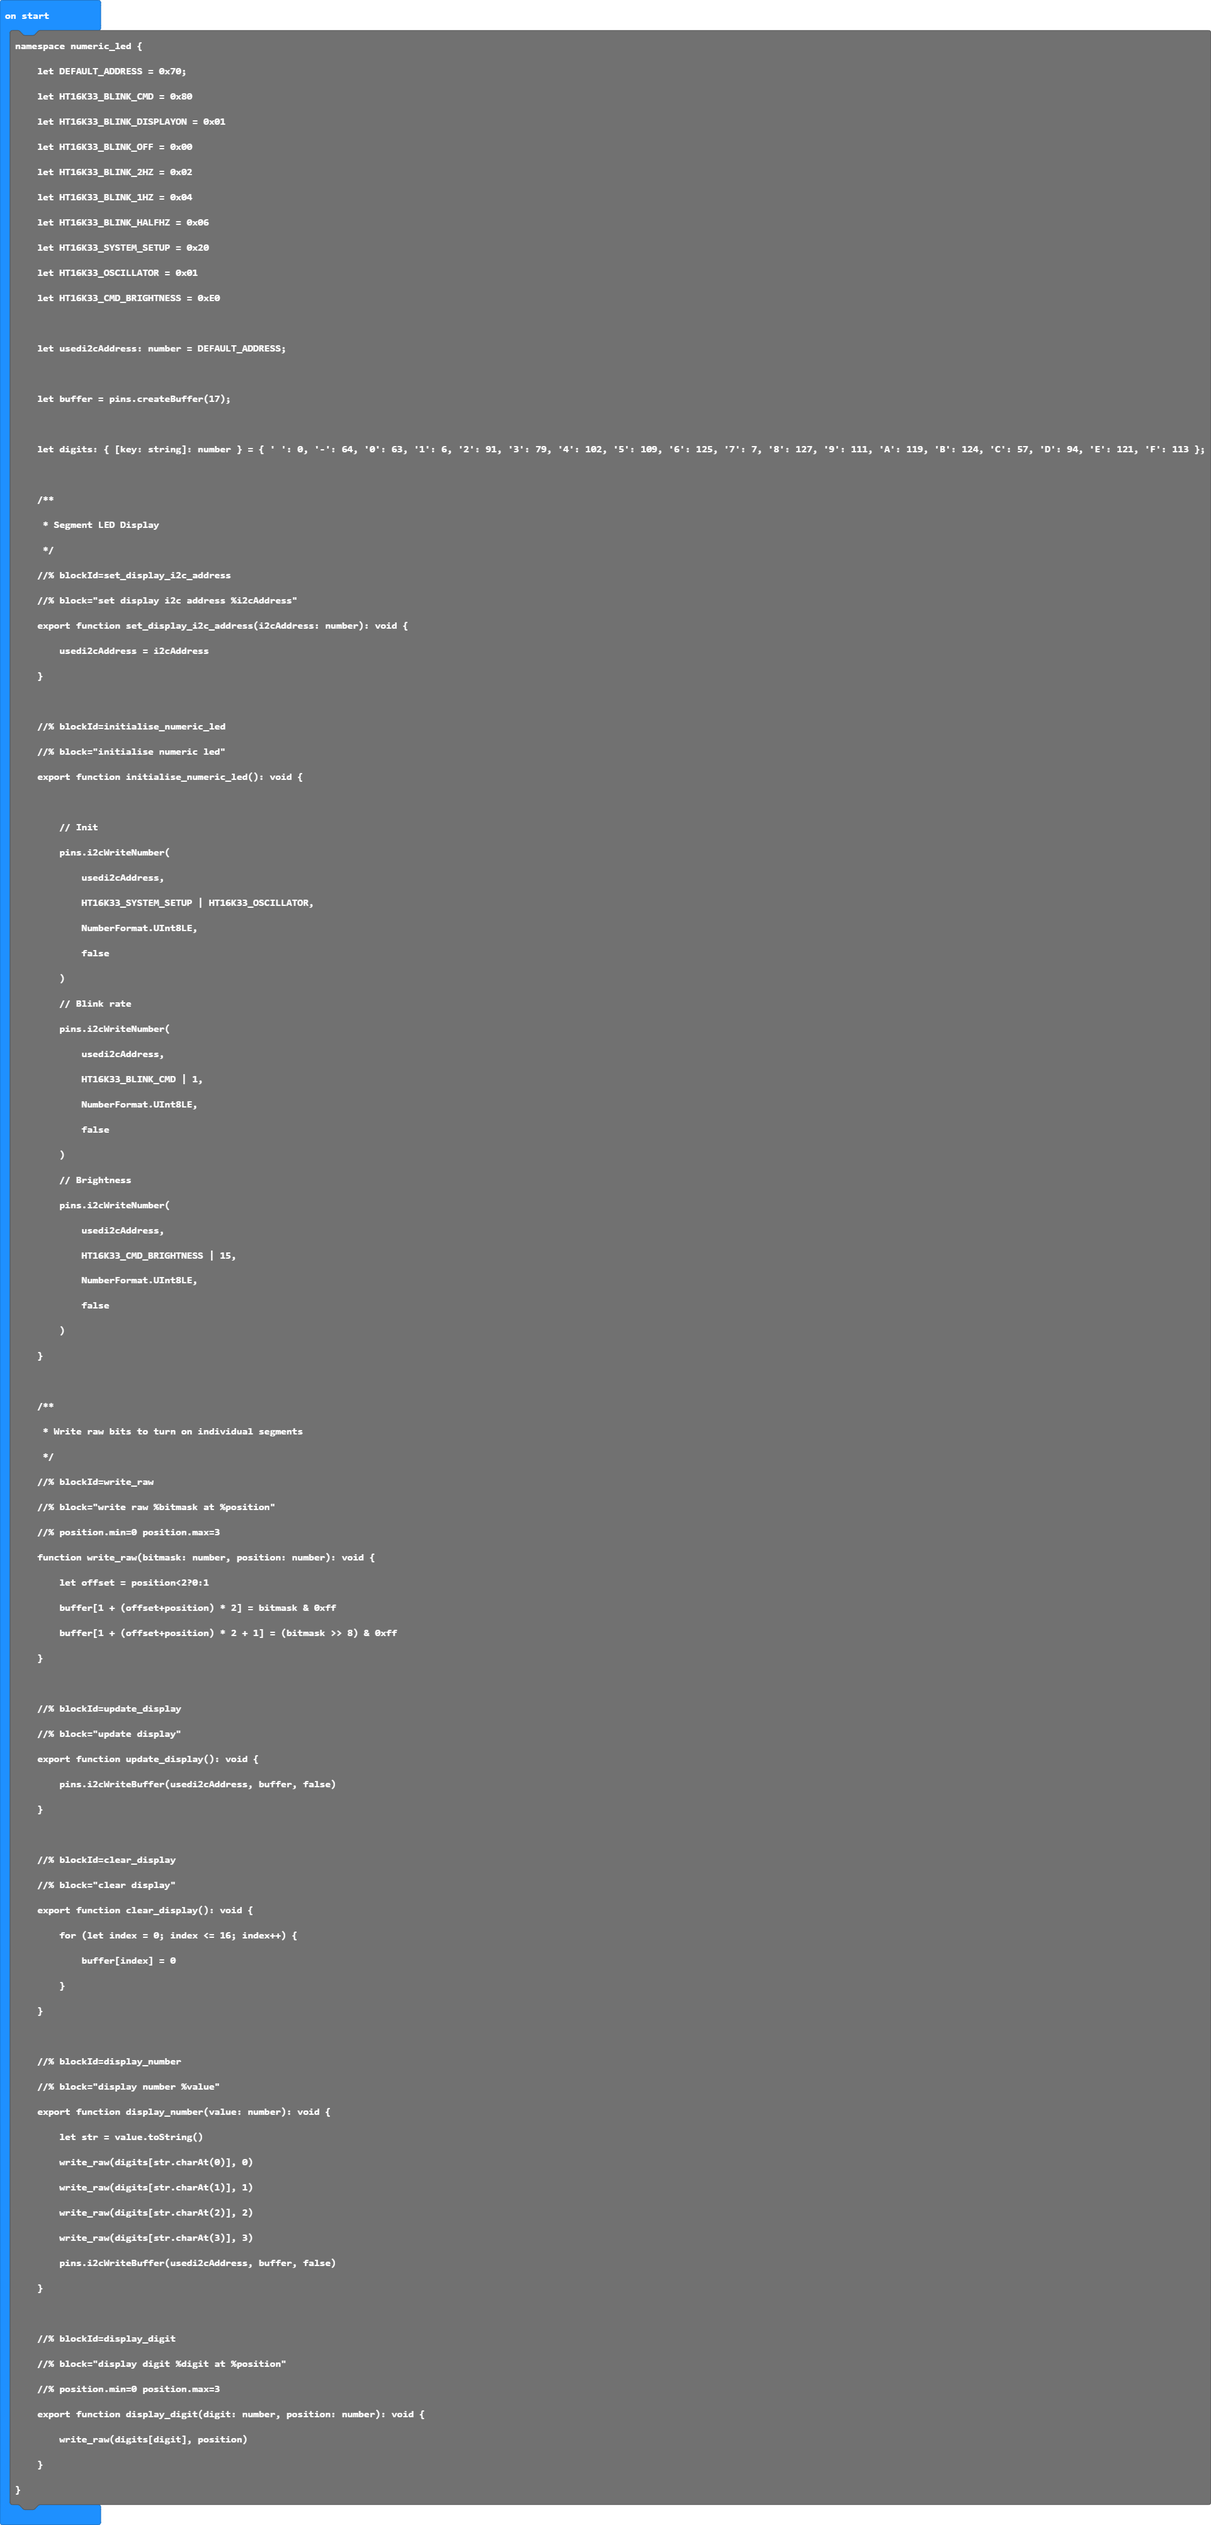
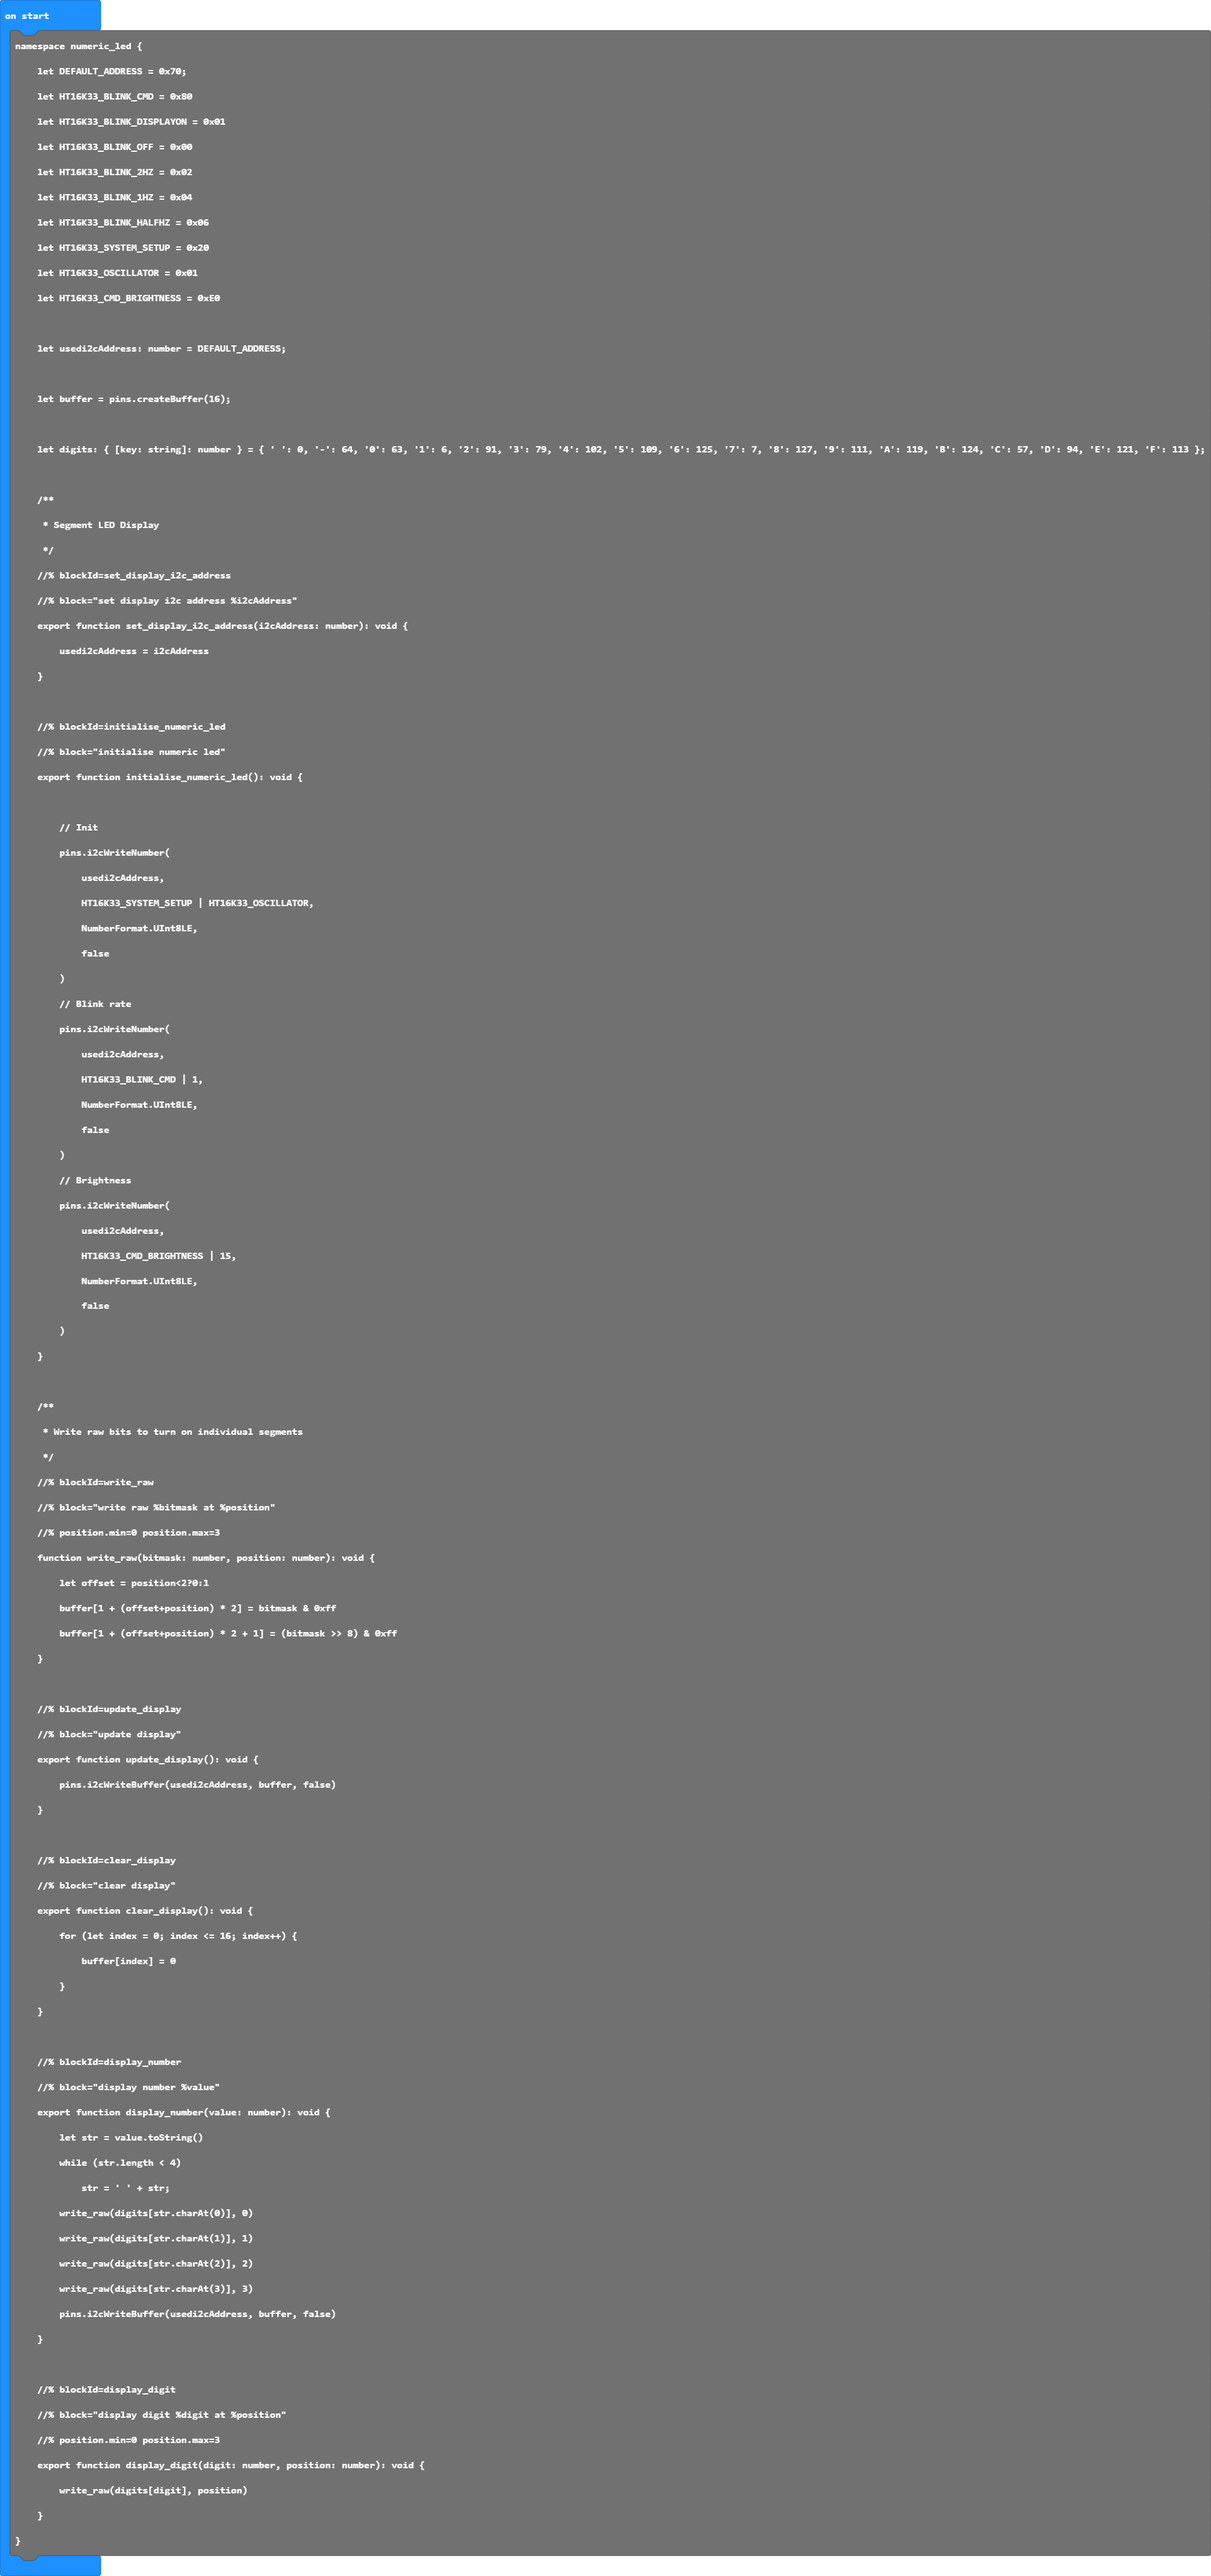
Update main.blocks, main.ts

diff --git a/main.ts b/main.ts
@@ -1,3 +1,7 @@
+/**
+ * Controls the Adafruit 7-segment numeric led display
+ */
+//% color="#ff7f50" icon="\uf06e" block="Numeric LED"
 namespace numeric_led {
     let DEFAULT_ADDRESS = 0x70;
     let HT16K33_BLINK_CMD = 0x80
@@ -12,7 +16,7 @@ namespace numeric_led {
 
     let usedi2cAddress: number = DEFAULT_ADDRESS;
 
-    let buffer = pins.createBuffer(16);
+    let buffer = pins.createBuffer(17);
 
     let digits: { [key: string]: number } = { ' ': 0, '-': 64, '0': 63, '1': 6, '2': 91, '3': 79, '4': 102, '5': 109, '6': 125, '7': 7, '8': 127, '9': 111, 'A': 119, 'B': 124, 'C': 57, 'D': 94, 'E': 121, 'F': 113 };
 
